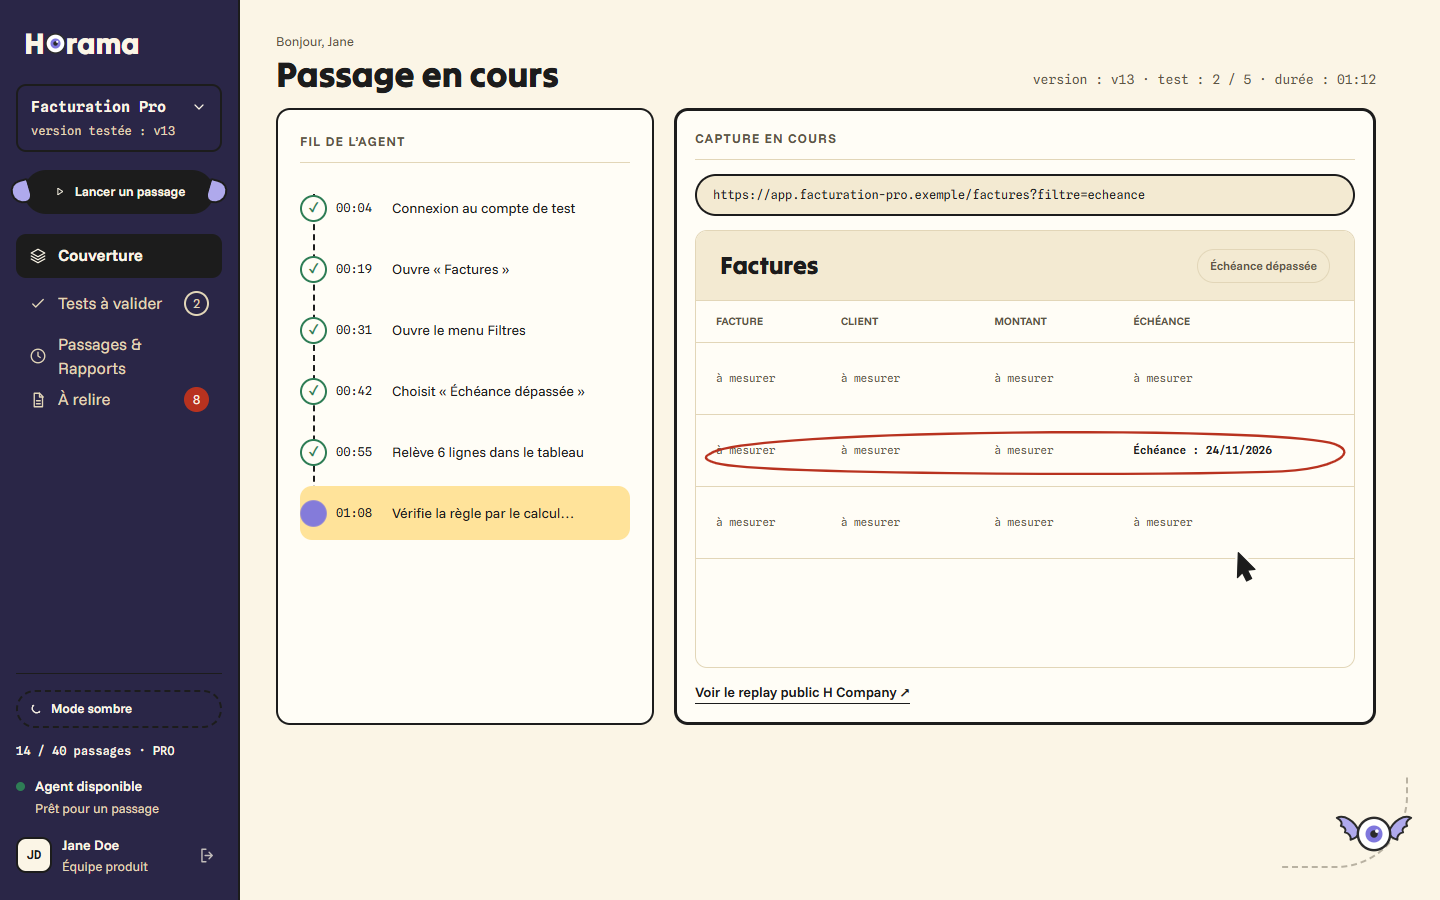
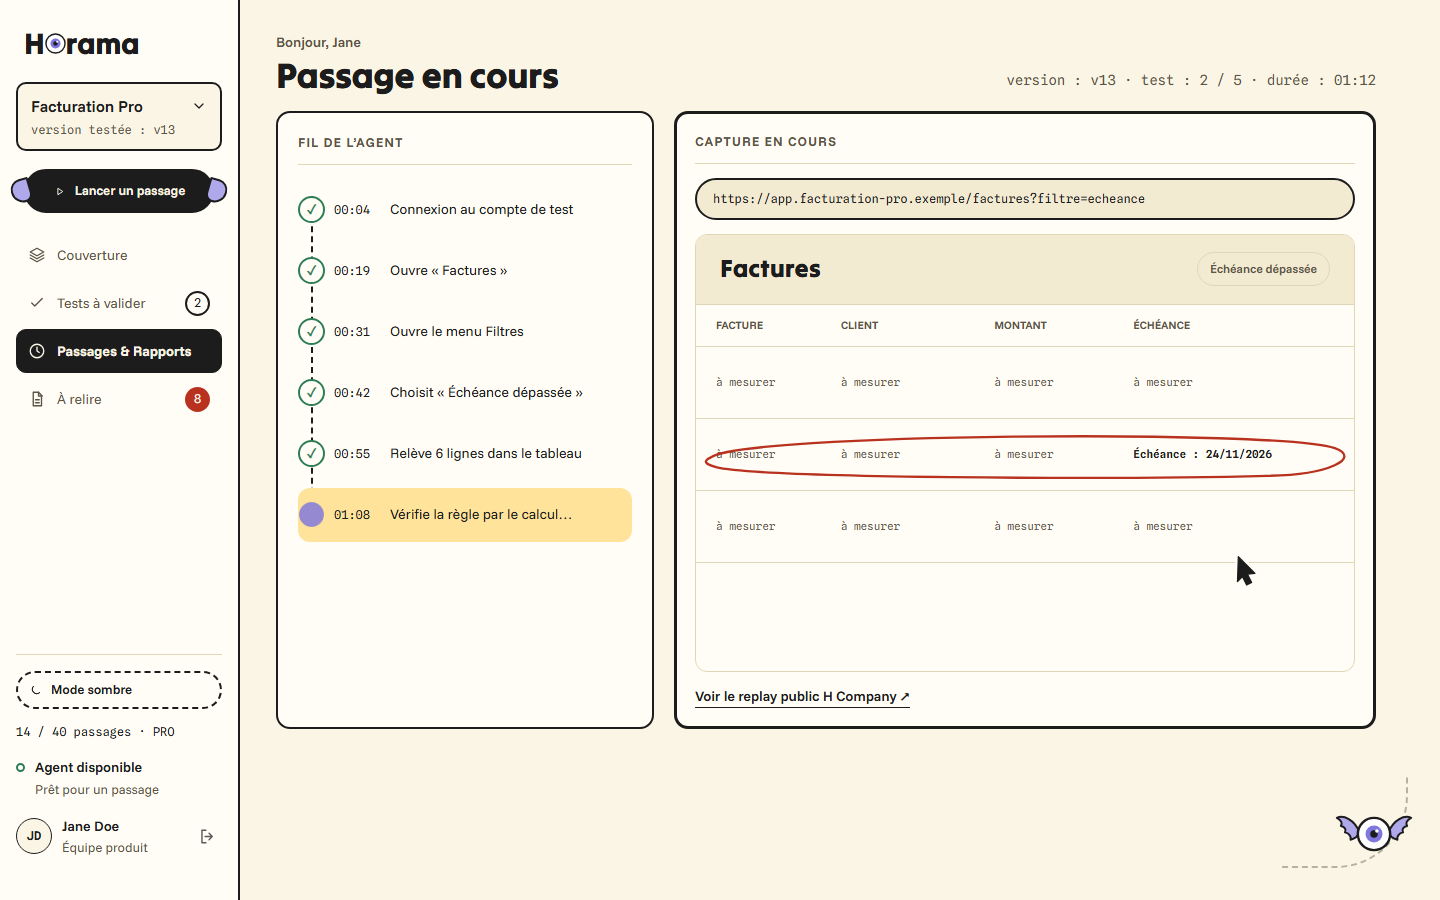
Interface Figma : écrans 11.5 à 11.7, barre latérale Papier sur tous les écrans
- Barre latérale Papier #FFFDF6 appliquée dans les deux fichiers Figma Make, plus jamais violette.
- Écrans 11.5 (comparaison des versions), 11.6 (à relire) et 11.7 (dérive documentaire) créés, navigation branchée.
- 11.3 et 11.4 recréés après une restauration de version qui les avait effacés ; logo, profil, bouton et mascotte de 11.1 remis à la charte.
- Les 7 captures reprises à 1440 × 900, README mis à jour.

diff --git a/docs/da/interface-envoye/README.md b/docs/da/interface-envoye/README.md
@@ -1,30 +1,35 @@
 # Interface Horama dans Figma Make : reskin « L'envoyé » (CDO, 18/11)
 
-Les deux écrans de l'application, dans Figma Make, suivent maintenant la charte graphique « L'envoyé » (`docs/da/charte-graphique.pdf`) et son guide de reskinning. La structure, la grille et le placement des composants n'ont pas changé : seuls les couleurs, les polices, les contours, le logo et la mascotte ont été remplacés.
+Les écrans de l'application, dans Figma Make, suivent la charte graphique « L'envoyé » (`docs/da/charte-graphique.pdf`) et son guide de reskinning. Seuls les couleurs, les polices, les contours, le logo et la mascotte ont été remplacés sur les écrans existants. Les écrans 11.3 à 11.7 ont été créés d'après la spécification des écrans.
 
 | Écran | Fichier Figma Make | Capture | Mascotte |
 |---|---|---|---|
-| 11.1 Couverture | [Concevoir l'interface Horama (light mode) (copie) (copie)](https://www.figma.com/make/95kAUa9u4Rg2A525f5OHtf) | `11-1-couverture.png` | `trouve` (iris miltos, badge « ! ») |
+| 11.1 Couverture | [Concevoir l'interface Horama (light mode) (copie) (copie)](https://www.figma.com/make/95kAUa9u4Rg2A525f5OHtf) | `11-1-couverture.png` | `regarde` (iris `#7F77DD`, sans badge) |
 | 11.2 Tests à valider | [Concevoir l'interface Horama (light mode) (copie) (copie)](https://www.figma.com/make/6bnlfg9sPF3qDLPWshYQLO) | `11-2-tests-a-valider.png` | `doute` (iris ocre, badge « ? ») |
-| 11.3 Passage en cours | même fichier que 11.1 | `11-3-passage-en-cours.png` | `regarde` (iris `#7F77DD`, sans badge) |
-| 11.4 Rapport de passage | même fichier que 11.1 | `11-4-rapport-de-passage.png` | `fini` (iris olivier, coche) |
+| 11.3 Passage en cours | même fichier que 11.1, route `#screen-11-3` | `11-3-passage-en-cours.png` | `regarde` |
+| 11.4 Rapport de passage | même fichier, route `#screen-11-4` | `11-4-rapport-de-passage.png` | `fini` (iris olivier, coche) |
+| 11.5 Comparaison des versions | même fichier, route `#screen-11-5` | `11-5-comparaison-des-versions.png` | `trouve` (iris miltos, badge « ! ») |
+| 11.6 À relire | même fichier, route `#screen-11-6` | `11-6-a-relire.png` | `doute` |
+| 11.7 Dérive documentaire | même fichier, route `#screen-11-7` | `11-7-derive-documentaire.png` | `fini` |
+
+Navigation branchée : « ▷ Lancer un passage » ouvre 11.3, « Passages & Rapports » ouvre 11.4, la ligne « Suspect » du rapport ouvre 11.5, « À relire » et « Ouvrir la relecture → » ouvrent 11.6, « C'est voulu » sur le second cas ouvre 11.7. L'entrée active du menu suit l'écran affiché.
 
 ## Ce qui a été appliqué
 
-- **Coque** : barre latérale Nuit `#2A2647`, logo « Horama » en Tilt Warp couleur engobe avec l'œil à la place du « o », sélecteur « Facturation Pro · version testée : v13 », bouton ailé « ▷ Lancer un passage », menu (Couverture, Tests à valider, Passages & Rapports, À relire), quota « 14 / 40 passages · PRO », « Agent disponible », profil « Jane Doe ».
+- **Coque** : barre latérale Papier `#FFFDF6` avec contour encre (voir plus bas), logo « H[œil]rama » en Tilt Warp couleur encre, sélecteur « Facturation Pro · version testée : v13 », bouton ailé « ▷ Lancer un passage », menu (Couverture, Tests à valider, Passages & Rapports, À relire), quota « 14 / 40 passages · PRO », « Agent disponible », profil « Jane Doe ».
 - **Zone principale** : fond engobe `#FBF5E6`, cartes papier `#FFFDF6` avec contour encre de 2,5 px, aucune ombre ni dégradé, titres en Tilt Warp, texte en Funnel Sans, mesures en Spline Sans Mono.
 - **États** : miltos `#B8321F` (défaut prouvé), ocre `#C48A1E` (suspect), olivier `#2E7D55` (conforme), toujours avec leur signe.
-- **Mascotte** : le dessin de `docs/da/mascotte.js` (ailes lilas), fixe en bas à droite, seuls l'iris et le badge changent selon l'écran.
+- **Mascotte** : le dessin de `docs/da/mascotte.js` (ailes lilas pointues, trait `#1C1C1C`), fixe en bas à droite ; seuls l'iris et le badge changent selon l'écran.
 
-La demande commune envoyée à Figma Make est dans `demande-figma-coque.txt`. Les captures ont été prises sur l'aperçu de chaque fichier, à 1440 × 900.
+Les demandes envoyées à Figma Make sont dans `demande-figma-coque.txt`, `demande-figma-barre-papier.txt` et `demandes-ecrans-11-3-a-11-7.txt`. Les captures ont été prises sur l'aperçu du fichier, à 1440 × 900.
 
 ## Barre latérale : décision du 18/11
 
-La barre latérale n'est **jamais violette**. Elle passe en Papier `#FFFDF6`, avec un contour encre de 2,5 px et des textes encre : voir `barre-laterale.md`. Les captures ci-dessus montrent encore l'ancienne barre Nuit. La demande prête à envoyer est dans `demande-figma-barre-papier.txt`.
+La barre latérale n'est **jamais violette**. Elle est en Papier `#FFFDF6`, avec un contour encre de 2,5 px et des textes encre : voir `barre-laterale.md`.
 
 ## Ce qui reste
 
 - Le dossier `interface/` du dépôt n'est pas modifié : ces écrans vivent dans Figma Make (fichiers du CPO).
-- Les écrans 11.5, 11.6 et 11.7 ne sont pas faits : les crédits d'IA de Figma Make de l'équipe sont épuisés jusqu'au 1er décembre. Leurs demandes sont prêtes dans `demandes-ecrans-11-3-a-11-7.txt`.
-- La barre latérale Papier n'est pas encore appliquée dans Figma, pour la même raison.
-- Sur l'écran 11.3, l'entrée active du menu reste « Couverture » au lieu de suivre l'écran affiché.
+- Une restauration de version dans Figma Make avait effacé les écrans 11.3 et 11.4 et remis l'ancien logo sur 11.1 : ils ont été recréés le 18/11 au soir. Avant de restaurer une version, vérifiez qu'elle contient les dossiers `interface/screen-11-3` à `screen-11-7`.
+- Les tableaux reproduits dans les maquettes (11.3, 11.5, 11.7) affichent « à mesurer » là où la spécification ne donne pas de valeur.
+- Sur 11.1, la barre latérale est un peu plus étroite que sur les autres écrans (« Passages & Rapports » passe sur deux lignes) et le quota « 14 / 40 passages · PRO » n'apparaît pas.
